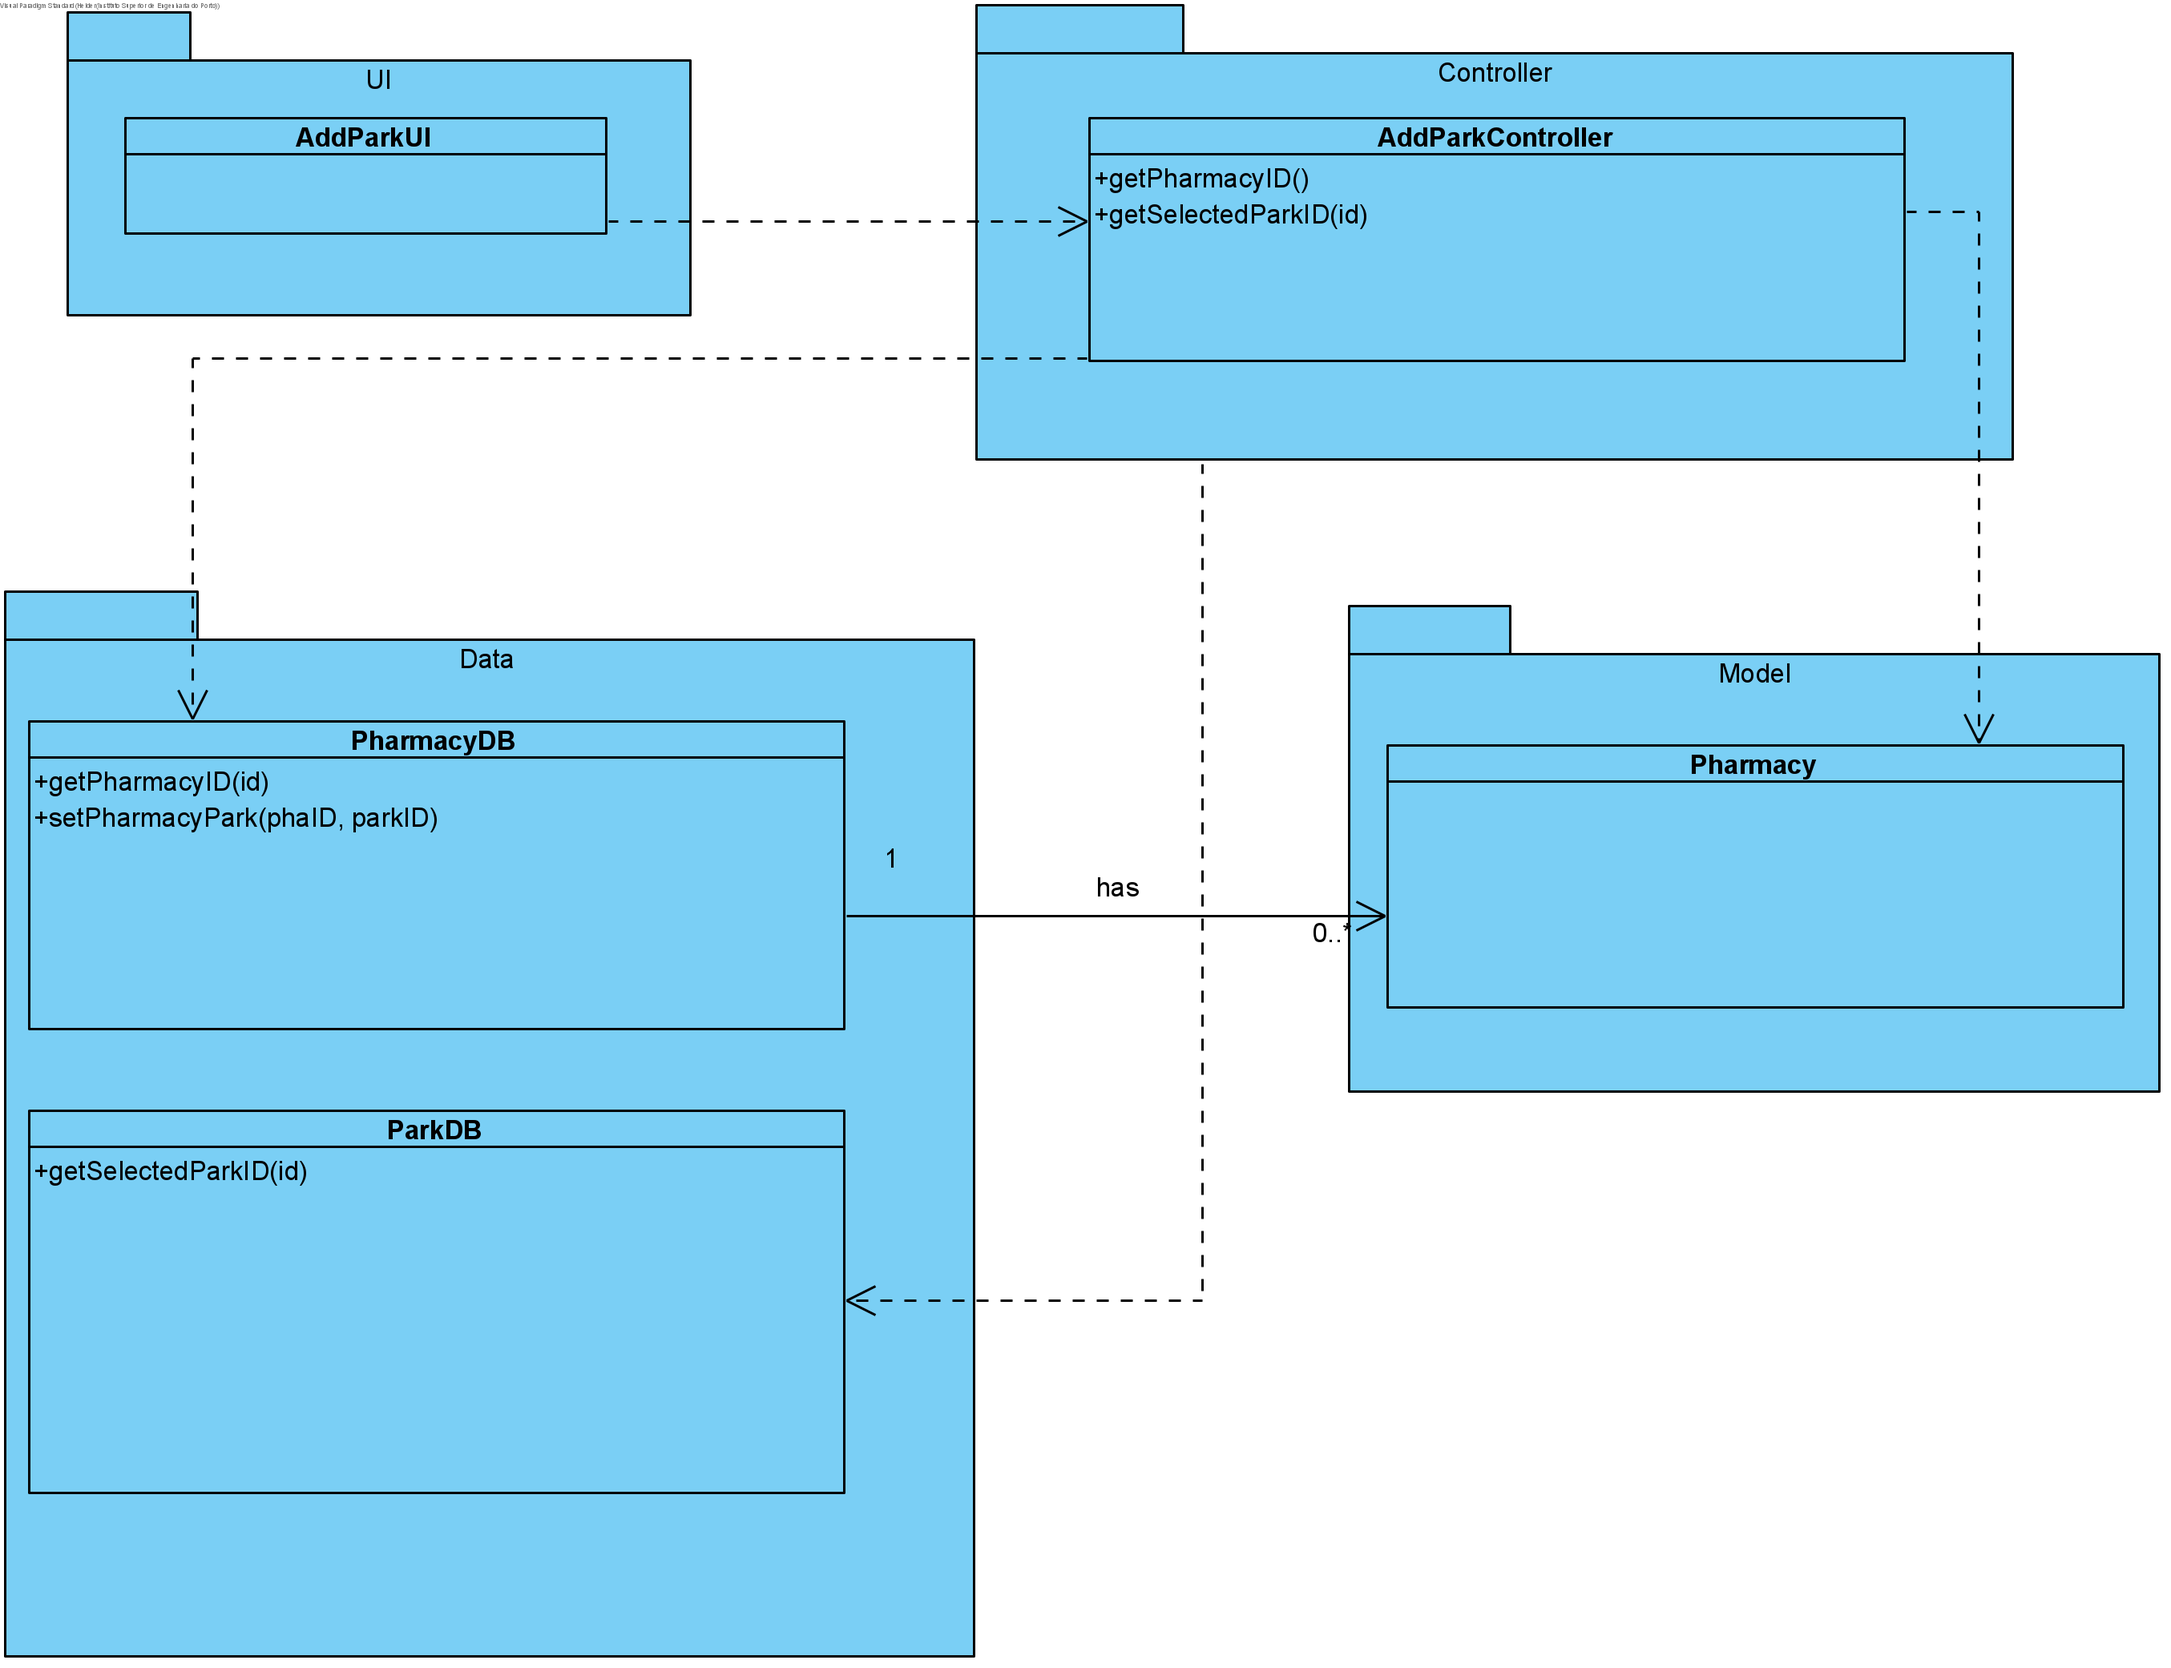
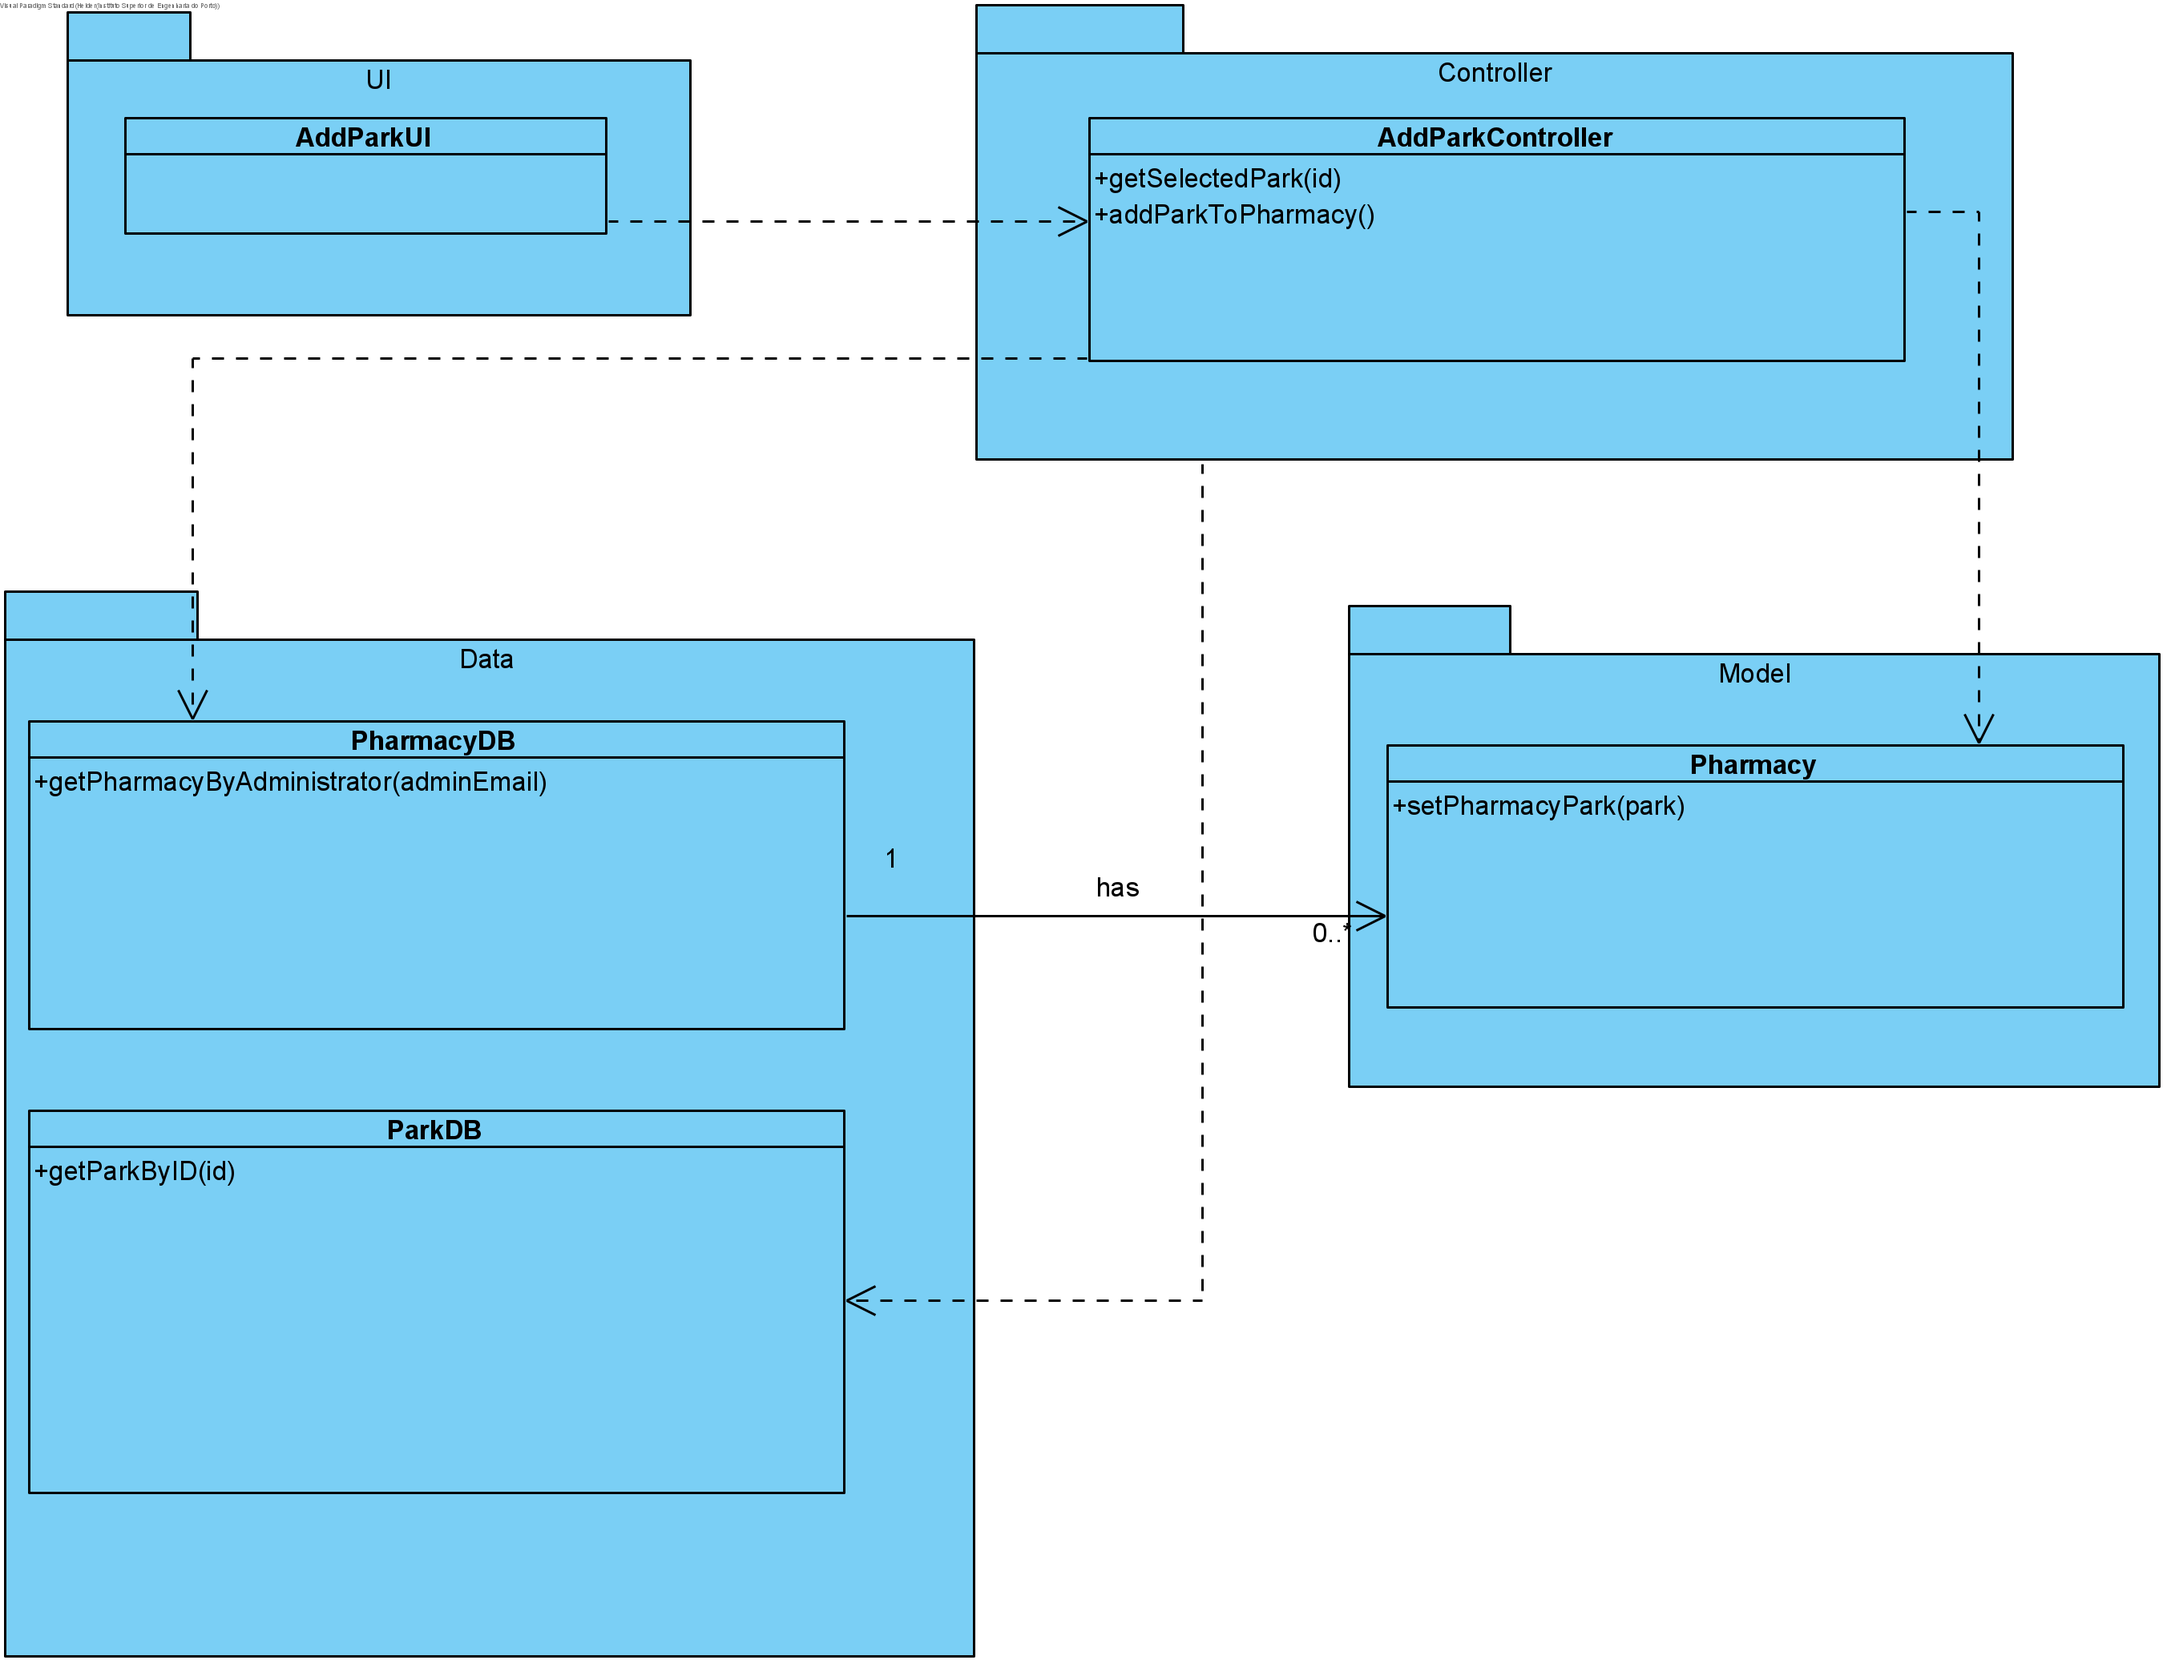
MEN09-252 #close Add Park [Review]

diff --git a/src/main/java/lapr/project/controller/AddParkController.java b/src/main/java/lapr/project/controller/AddParkController.java
@@ -33,11 +33,11 @@ public class AddParkController {
    
     
     public String getSelectedPark(int id) throws SQLException{
-        park = parkdb.getPark(id);
+        park = parkdb.getParkByID(id);
         return park == null ? null : park.toString();
     }
     
-    public void addToPharmacy() throws SQLException{
+    public void addParkToPharmacy() throws SQLException{
         if(park!=null){
             pdb.getPharmacyByAdministrator(administratorEmail).setParks(park);
         }

diff --git a/src/main/java/lapr/project/model/Pharmacy.java b/src/main/java/lapr/project/model/Pharmacy.java
@@ -135,6 +135,10 @@ public class Pharmacy {
             return String.format("%d %s  %d  %s  %s ", id, getName(), getPhoneNumber(), getAdministrator().toString(), getAddress().toString());
         }
 
+    public void setParks(Park park) {
+        throw new UnsupportedOperationException("Not supported yet."); //To change body of generated methods, choose Tools | Templates.
+    }
+
   
     }
 

diff --git a/src/main/java/lapr/project/data/ParkDB.java b/src/main/java/lapr/project/data/ParkDB.java
@@ -50,4 +50,8 @@ public class ParkDB extends DataHandler {
         }
         return parks;
     }
+
+    public Park getParkByID(int id) {
+        throw new UnsupportedOperationException("Not supported yet."); //To change body of generated methods, choose Tools | Templates.
+    }
 }

diff --git a/documentation/use_cases/UC17/UC17_AddPark.md b/documentation/use_cases/UC17/UC17_AddPark.md
@@ -1,7 +1,7 @@
 # UC17 - Add Park
 
 ## 1. Requirements Engineering
-The pharmacy starts adding parks. The system asks the park ID to add. The pharmacy selects the park ID. The system informs the succes of the operation.
+The pharmacy starts adding parks. The system asks the park ID to add. The pharmacy selects the park ID. The system asks for confirmation. The pharmacy confirms. The system informs the succes of the operation.
 
 ## SSD
 ![UC17_SSD.png](UC17_SSD.png)
